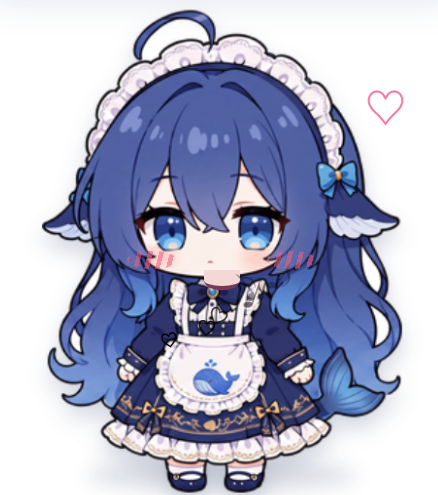
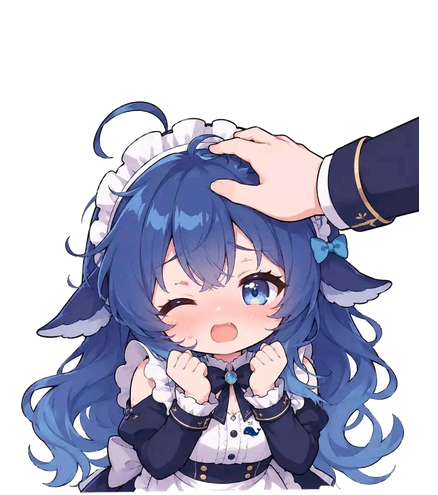
Add consistent reference-based expression frames

diff --git a/scripts/extract-reference-frame.py b/scripts/extract-reference-frame.py
@@ -1,0 +1,62 @@
+"""Extract one connected character from a white-background reference image."""
+
+from __future__ import annotations
+
+import argparse
+from pathlib import Path
+
+import cv2
+import numpy as np
+from PIL import Image
+
+
+def extract(source: Path, seed: tuple[int, int]) -> Image.Image:
+    image = Image.open(source).convert("RGBA")
+    white = Image.new("RGBA", image.size, "white")
+    white.alpha_composite(image)
+    rgb = np.asarray(white.convert("RGB"))
+
+    near_white = np.all(rgb > 230, axis=2).astype(np.uint8)
+    _, white_labels = cv2.connectedComponents(near_white, connectivity=8)
+    edge_labels = np.unique(
+        np.concatenate((white_labels[0], white_labels[-1], white_labels[:, 0], white_labels[:, -1]))
+    )
+    edge_labels = edge_labels[edge_labels != 0]
+    background = np.isin(white_labels, edge_labels)
+    foreground = (~background).astype(np.uint8)
+    _, labels = cv2.connectedComponents(foreground, connectivity=8)
+    label = labels[seed[1], seed[0]]
+    if label == 0:
+        raise RuntimeError("Character seed landed on the background")
+
+    mask = np.where(labels == label, 255, 0).astype(np.uint8)
+    mask = cv2.morphologyEx(mask, cv2.MORPH_CLOSE, np.ones((3, 3), np.uint8))
+    mask = cv2.GaussianBlur(mask, (0, 0), 0.55)
+    ys, xs = np.where(mask > 8)
+    rgba = Image.fromarray(np.dstack((rgb, mask)), "RGBA")
+    return rgba.crop((max(0, xs.min() - 4), max(0, ys.min() - 4), min(rgb.shape[1], xs.max() + 5), min(rgb.shape[0], ys.max() + 5)))
+
+
+def fit(character: Image.Image) -> Image.Image:
+    character.thumbnail((400, 485), Image.Resampling.LANCZOS)
+    canvas = Image.new("RGBA", (438, 495), (0, 0, 0, 0))
+    canvas.alpha_composite(character, ((canvas.width - character.width) // 2, canvas.height - character.height))
+    return canvas
+
+
+def main() -> None:
+    parser = argparse.ArgumentParser()
+    parser.add_argument("input", type=Path)
+    parser.add_argument("output", type=Path)
+    parser.add_argument("--seed-x", type=int, required=True)
+    parser.add_argument("--seed-y", type=int, required=True)
+    args = parser.parse_args()
+
+    frame = fit(extract(args.input, (args.seed_x, args.seed_y)))
+    args.output.parent.mkdir(parents=True, exist_ok=True)
+    frame.save(args.output, optimize=True)
+    print(args.output)
+
+
+if __name__ == "__main__":
+    main()

diff --git a/scripts/stamp-apron-emblem.py b/scripts/stamp-apron-emblem.py
@@ -1,0 +1,55 @@
+"""Bake the canonical whale emblem into a generated full-frame PNG."""
+
+from __future__ import annotations
+
+import argparse
+from pathlib import Path
+
+import cv2
+import numpy as np
+from PIL import Image
+
+
+def extract_emblem(source: Image.Image) -> tuple[Image.Image, tuple[int, int]]:
+    rgba = np.asarray(source.convert("RGBA"))
+    x0, y0, x1, y1 = 190, 365, 260, 425
+    roi = rgba[y0:y1, x0:x1]
+    candidate = ((roi[:, :, 3] > 8) & (roi[:, :, :3].min(axis=2) < 228)).astype(np.uint8)
+    _, labels = cv2.connectedComponents(candidate, connectivity=8)
+    seed = (218 - x0, 388 - y0)
+    component = labels[seed[1], seed[0]]
+    if component == 0:
+        raise RuntimeError("Emblem seed did not land on the canonical emblem")
+
+    mask = np.where(labels == component, 255, 0).astype(np.uint8)
+    contours, _ = cv2.findContours(mask, cv2.RETR_EXTERNAL, cv2.CHAIN_APPROX_SIMPLE)
+    filled = np.zeros_like(mask)
+    cv2.drawContours(filled, contours, -1, 255, thickness=cv2.FILLED)
+    filled = cv2.GaussianBlur(filled, (0, 0), 0.35)
+    ys, xs = np.where(filled > 8)
+    left, top = max(0, xs.min() - 3), max(0, ys.min() - 3)
+    right, bottom = min(filled.shape[1], xs.max() + 4), min(filled.shape[0], ys.max() + 4)
+    patch = Image.fromarray(np.dstack((roi[:, :, :3], filled)), "RGBA").crop((left, top, right, bottom))
+    return patch, (x0 + left, y0 + top)
+
+
+def stamp(source_path: Path, target_path: Path, output_path: Path) -> None:
+    emblem, (left, top) = extract_emblem(Image.open(source_path))
+    target = Image.open(target_path).convert("RGBA")
+    target.alpha_composite(emblem, (left, top))
+    output_path.parent.mkdir(parents=True, exist_ok=True)
+    target.save(output_path, optimize=True)
+    print(output_path)
+
+
+def main() -> None:
+    parser = argparse.ArgumentParser()
+    parser.add_argument("source", type=Path)
+    parser.add_argument("target", type=Path)
+    parser.add_argument("output", type=Path)
+    args = parser.parse_args()
+    stamp(args.source, args.target, args.output)
+
+
+if __name__ == "__main__":
+    main()

diff --git a/README.md b/README.md
@@ -117,6 +117,8 @@ python scripts\prepare-generated-frame.py input.jpg assets\frames\frame-ciallo.p
 
 脚本会从画布边缘移除白底，将角色缩放到 `438 × 495` 透明画布，并统一为底部居中的脚底锚点。`--alternate-output` 只生成无部件拆分的轻微整体摆动；正式复杂动作应使用独立绘制的完整角色帧。多帧动作在 `src/renderer/app.js` 的 `frameSequences` 中登记，运行时按顺序切换整张图片。
 
+身份一致性检查必须包含：头顶弯曲蓝色呆毛、画面右侧的单个蓝色蝴蝶结、围裙中央 DeepSeek 蓝色鲸鱼图标。生成图缺少图标时，可用 `scripts/stamp-apron-emblem.py` 从基准帧提取并烘焙规范徽章；白底表情参考可用 `scripts/extract-reference-frame.py` 提取角色连通区域。两种处理都会生成完整 PNG，不依赖运行时 CSS 五官或道具覆盖。
+
 ## 隐私与安全
 
 - Electron 渲染进程启用 `contextIsolation` 和沙箱，关闭 Node.js 集成。
